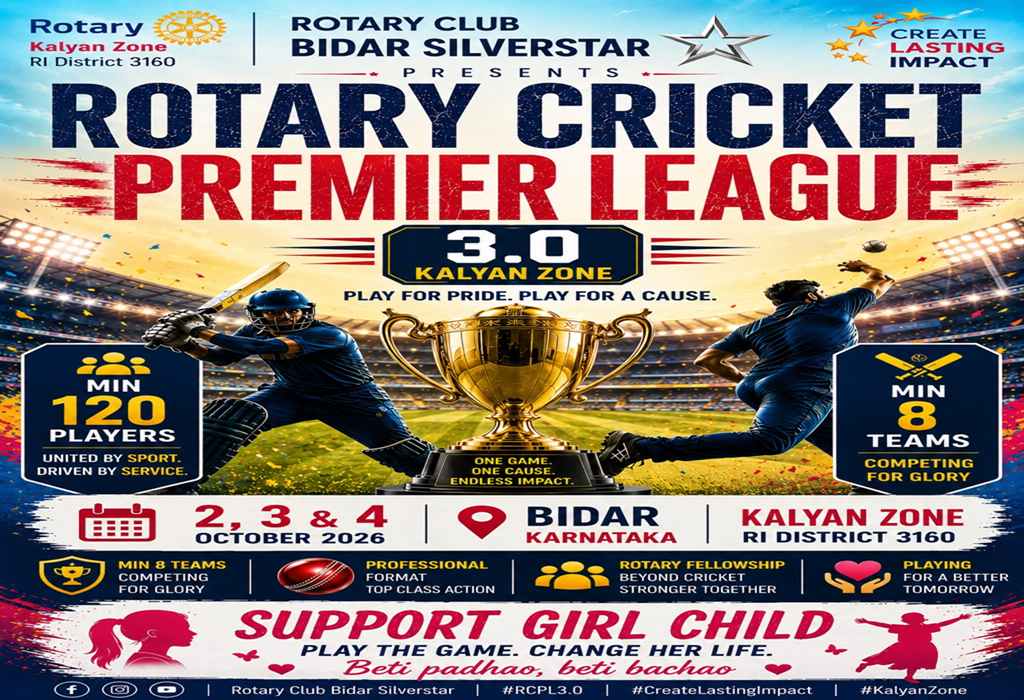
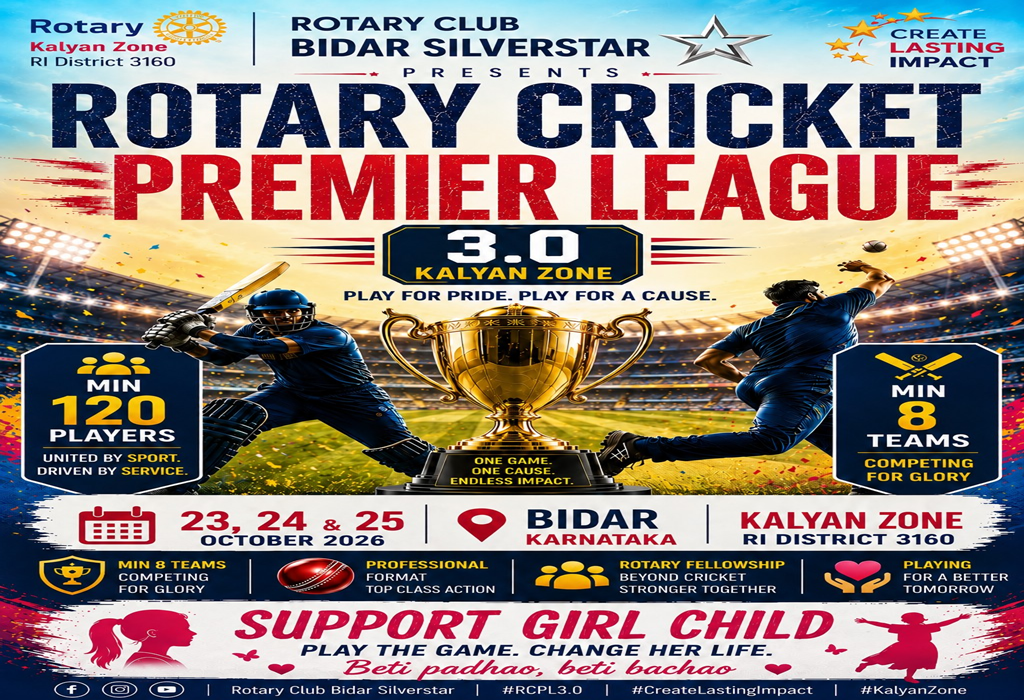
teams section updated

diff --git a/cricket_event/style.css b/cricket_event/style.css
@@ -33,7 +33,7 @@ html {
 
 body {
   font-family: "Inter", sans-serif;
-  background: var(--cream);
+  background: black;
   color: var(--ink);
   margin: 0;
   overflow-x: hidden;
@@ -696,6 +696,97 @@ img {
   color: var(--muted);
   cursor: pointer;
 }
+
+
+
+
+
+/* ---------------------------------------------------------------------------------------------
+Teams */
+/* Teams Section */
+.teams-section {
+  padding: 4rem 0;
+  overflow: hidden;
+}
+
+.teams-scroll-wrap {
+  width: 100%;
+  overflow: hidden;
+  position: relative;
+  -webkit-mask-image: linear-gradient(
+    to right,
+    transparent 0,
+    #000 8%,
+    #000 92%,
+    transparent 100%
+  );
+  mask-image: linear-gradient(
+    to right,
+    transparent 0,
+    #000 8%,
+    #000 92%,
+    transparent 100%
+  );
+}
+
+.teams-track {
+  display: flex;
+  align-items: center;
+  gap: 2.5rem;
+  width: max-content;
+  animation: teams-scroll 22s linear infinite;
+}
+
+.teams-scroll-wrap:hover .teams-track {
+  animation-play-state: paused;
+}
+
+.team-logo-card {
+  flex: 0 0 auto;
+  width: 250px;
+  height: 250px;
+  display: flex;
+  align-items: center;
+  justify-content: center;
+  background: #fff;
+  border-radius: 16px;
+  box-shadow: 0 6px 20px rgba(0, 0, 0, 0.08);
+  padding: 0.8rem;
+  transition: transform 0.3s ease, box-shadow 0.3s ease;
+}
+
+.team-logo-card:hover {
+  transform: translateY(-3px) scale(1.05);
+  box-shadow: 0 10px 28px rgba(0, 0, 0, 0.15);
+}
+
+.team-logo-card img {
+  max-width: 100%;
+  max-height: 100%;
+  object-fit: contain;
+}
+
+@keyframes teams-scroll {
+  0% {
+    transform: translateX(0);
+  }
+  100% {
+    transform: translateX(-50%);
+  }
+}
+
+/* Responsive sizing */
+@media (max-width: 768px) {
+  .team-logo-card {
+    width:200px;
+    height: 200px;
+  }
+  .teams-track {
+    gap: 1.5rem;
+  }
+}
+/* -------------------------------------------------------------------------------
+Teams end */
 
 /* ---------- Animations ---------- */
 @keyframes fadeIn {

diff --git a/cricket_event/index.html b/cricket_event/index.html
@@ -229,6 +229,45 @@
       </div>
     </section>
 
+
+
+<!-- Teams Section -->
+<section class="section teams-section" id="teams">
+  <div class="container">
+    <div class="text-center mb-5 reveal-up">
+      <span class="eyebrow">Who's playing</span>
+      <h2 class="section-title">8 Teams. One Trophy.</h2>
+    </div>
+  </div>
+
+  <div class="teams-scroll-wrap">
+    <div class="teams-track">
+      <!-- Set 1 -->
+      <div class="team-logo-card"><img src="./images/1.JPG" alt="Team 1 Logo"></div>
+      <div class="team-logo-card"><img src="./images/2.JPG" alt="Team 2 Logo"></div>
+      <div class="team-logo-card"><img src="./images/3.JPG" alt="Team 3 Logo"></div>
+      <div class="team-logo-card"><img src="./images/4.JPG" alt="Team 4 Logo"></div>
+      <div class="team-logo-card"><img src="./images/5.png" alt="Team 5 Logo"></div>
+  
+  
+
+      <!-- Duplicate set for seamless loop (keep this, don't remove) -->
+            <div class="team-logo-card"><img src="./images/1.JPG" alt="Team 1 Logo"></div>
+      <div class="team-logo-card"><img src="./images/2.JPG" alt="Team 2 Logo"></div>
+      <div class="team-logo-card"><img src="./images/3.JPG" alt="Team 3 Logo"></div>
+      <div class="team-logo-card"><img src="./images/4.JPG" alt="Team 4 Logo"></div>
+      <div class="team-logo-card"><img src="./images/5.png" alt="Team 5 Logo"></div>
+  
+    </div>
+  </div>
+</section>
+
+
+
+
+
+
+
     <!-- Urgency CTA banner -->
     <section class="cta-banner">
       <div class="container cta-inner reveal-up">